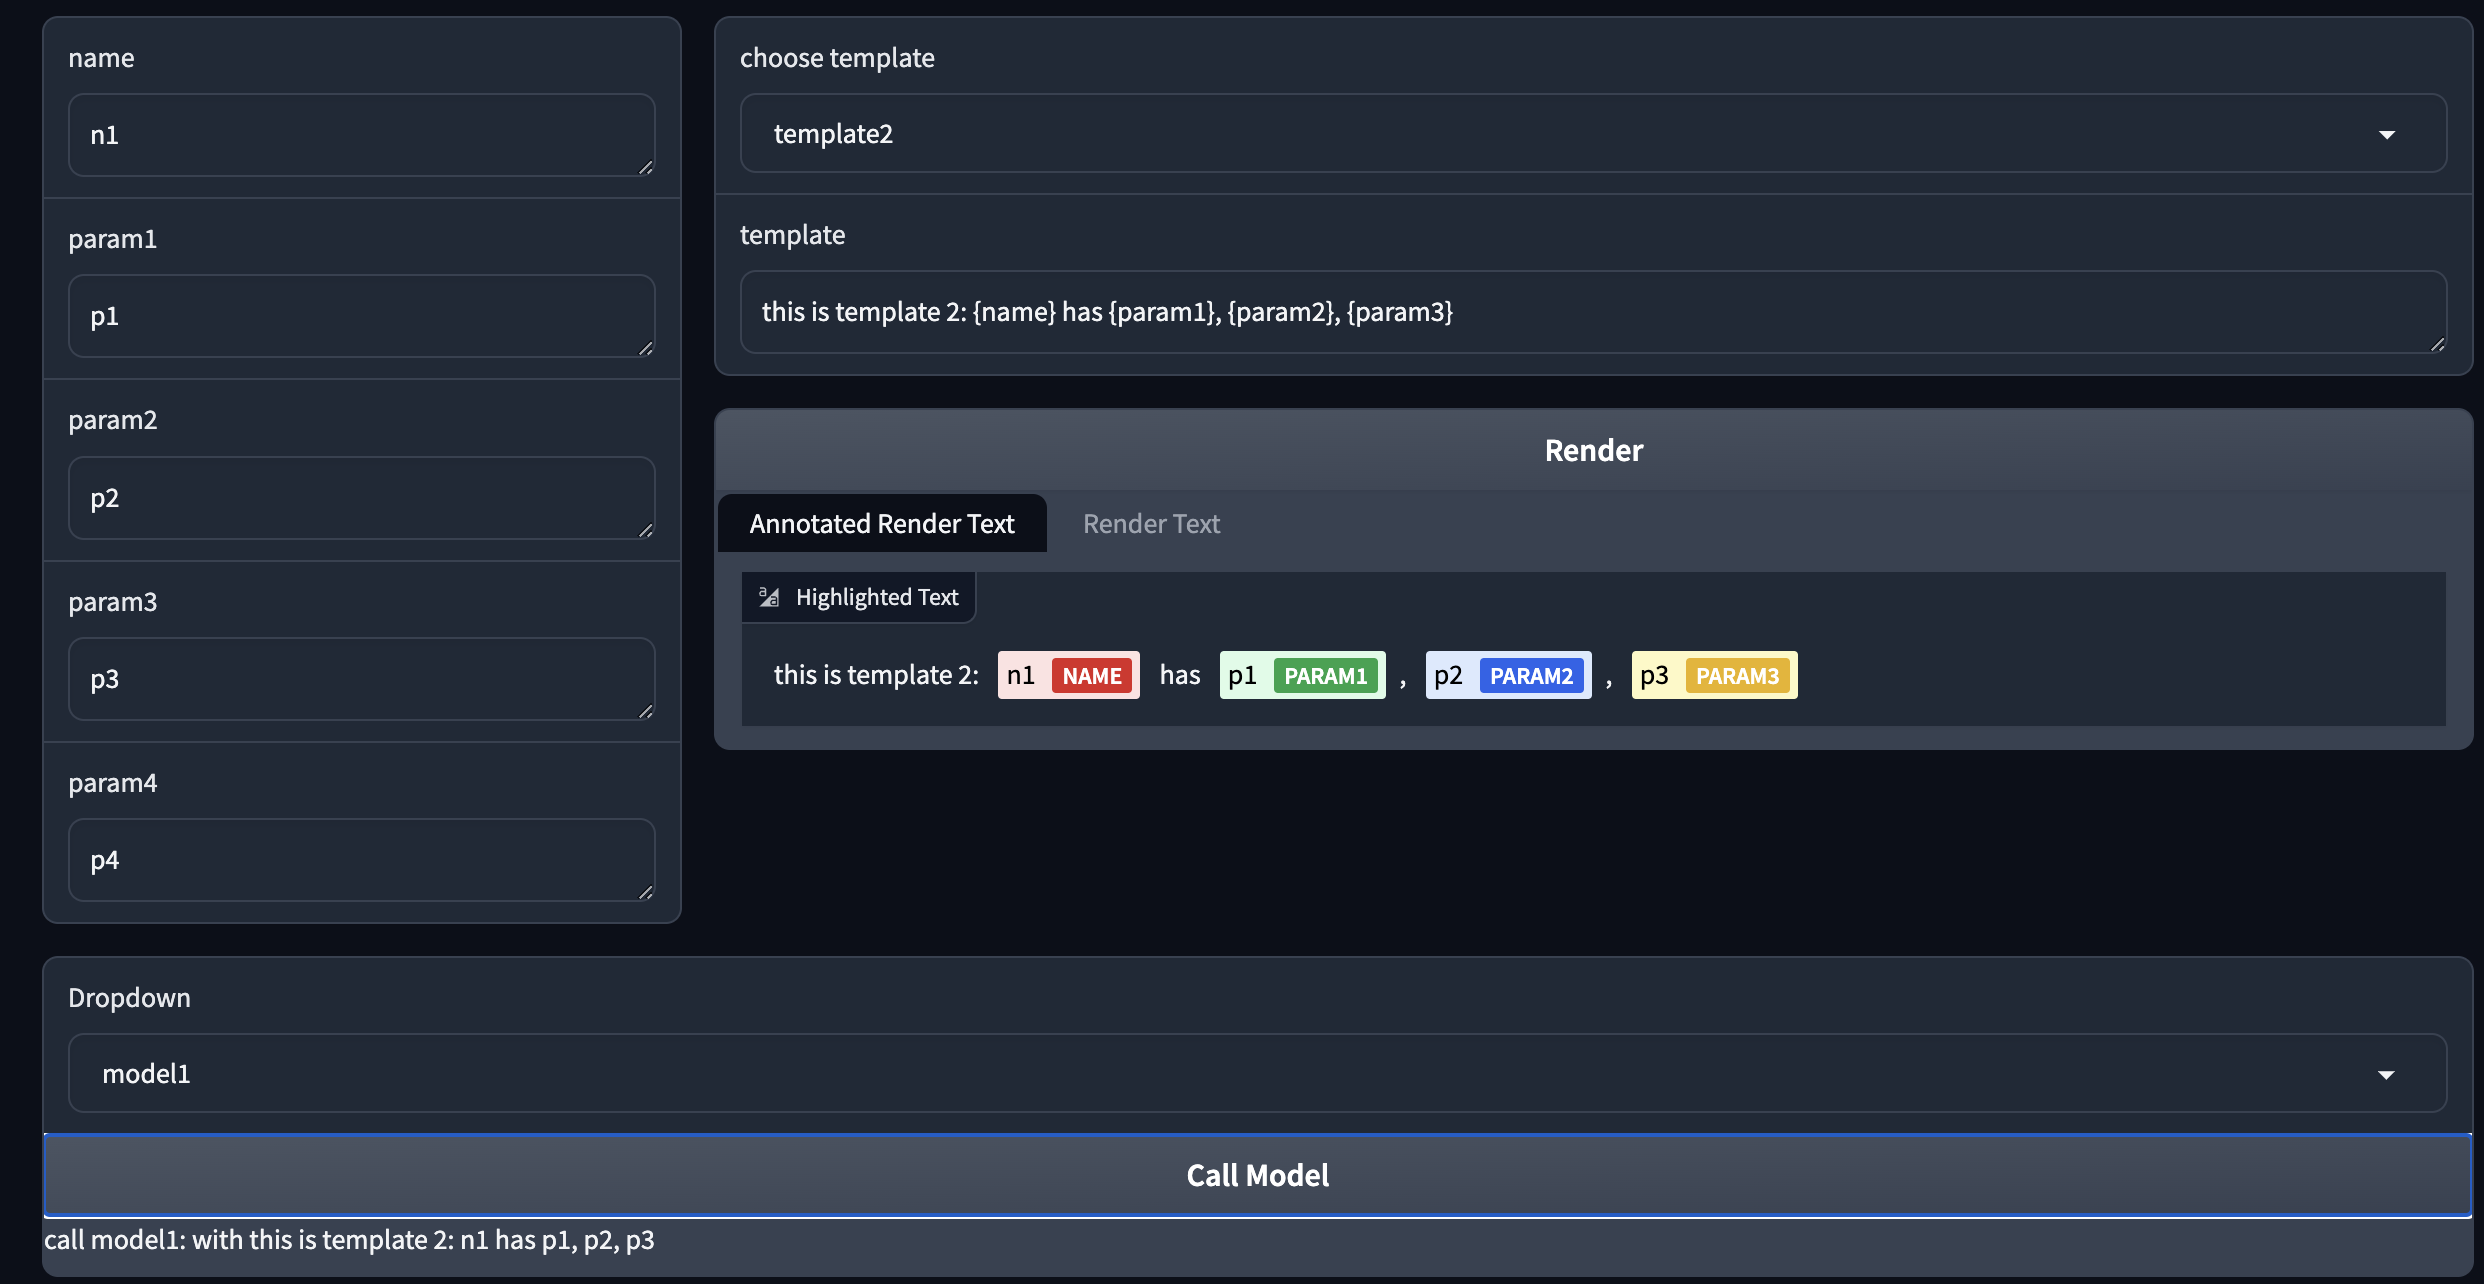
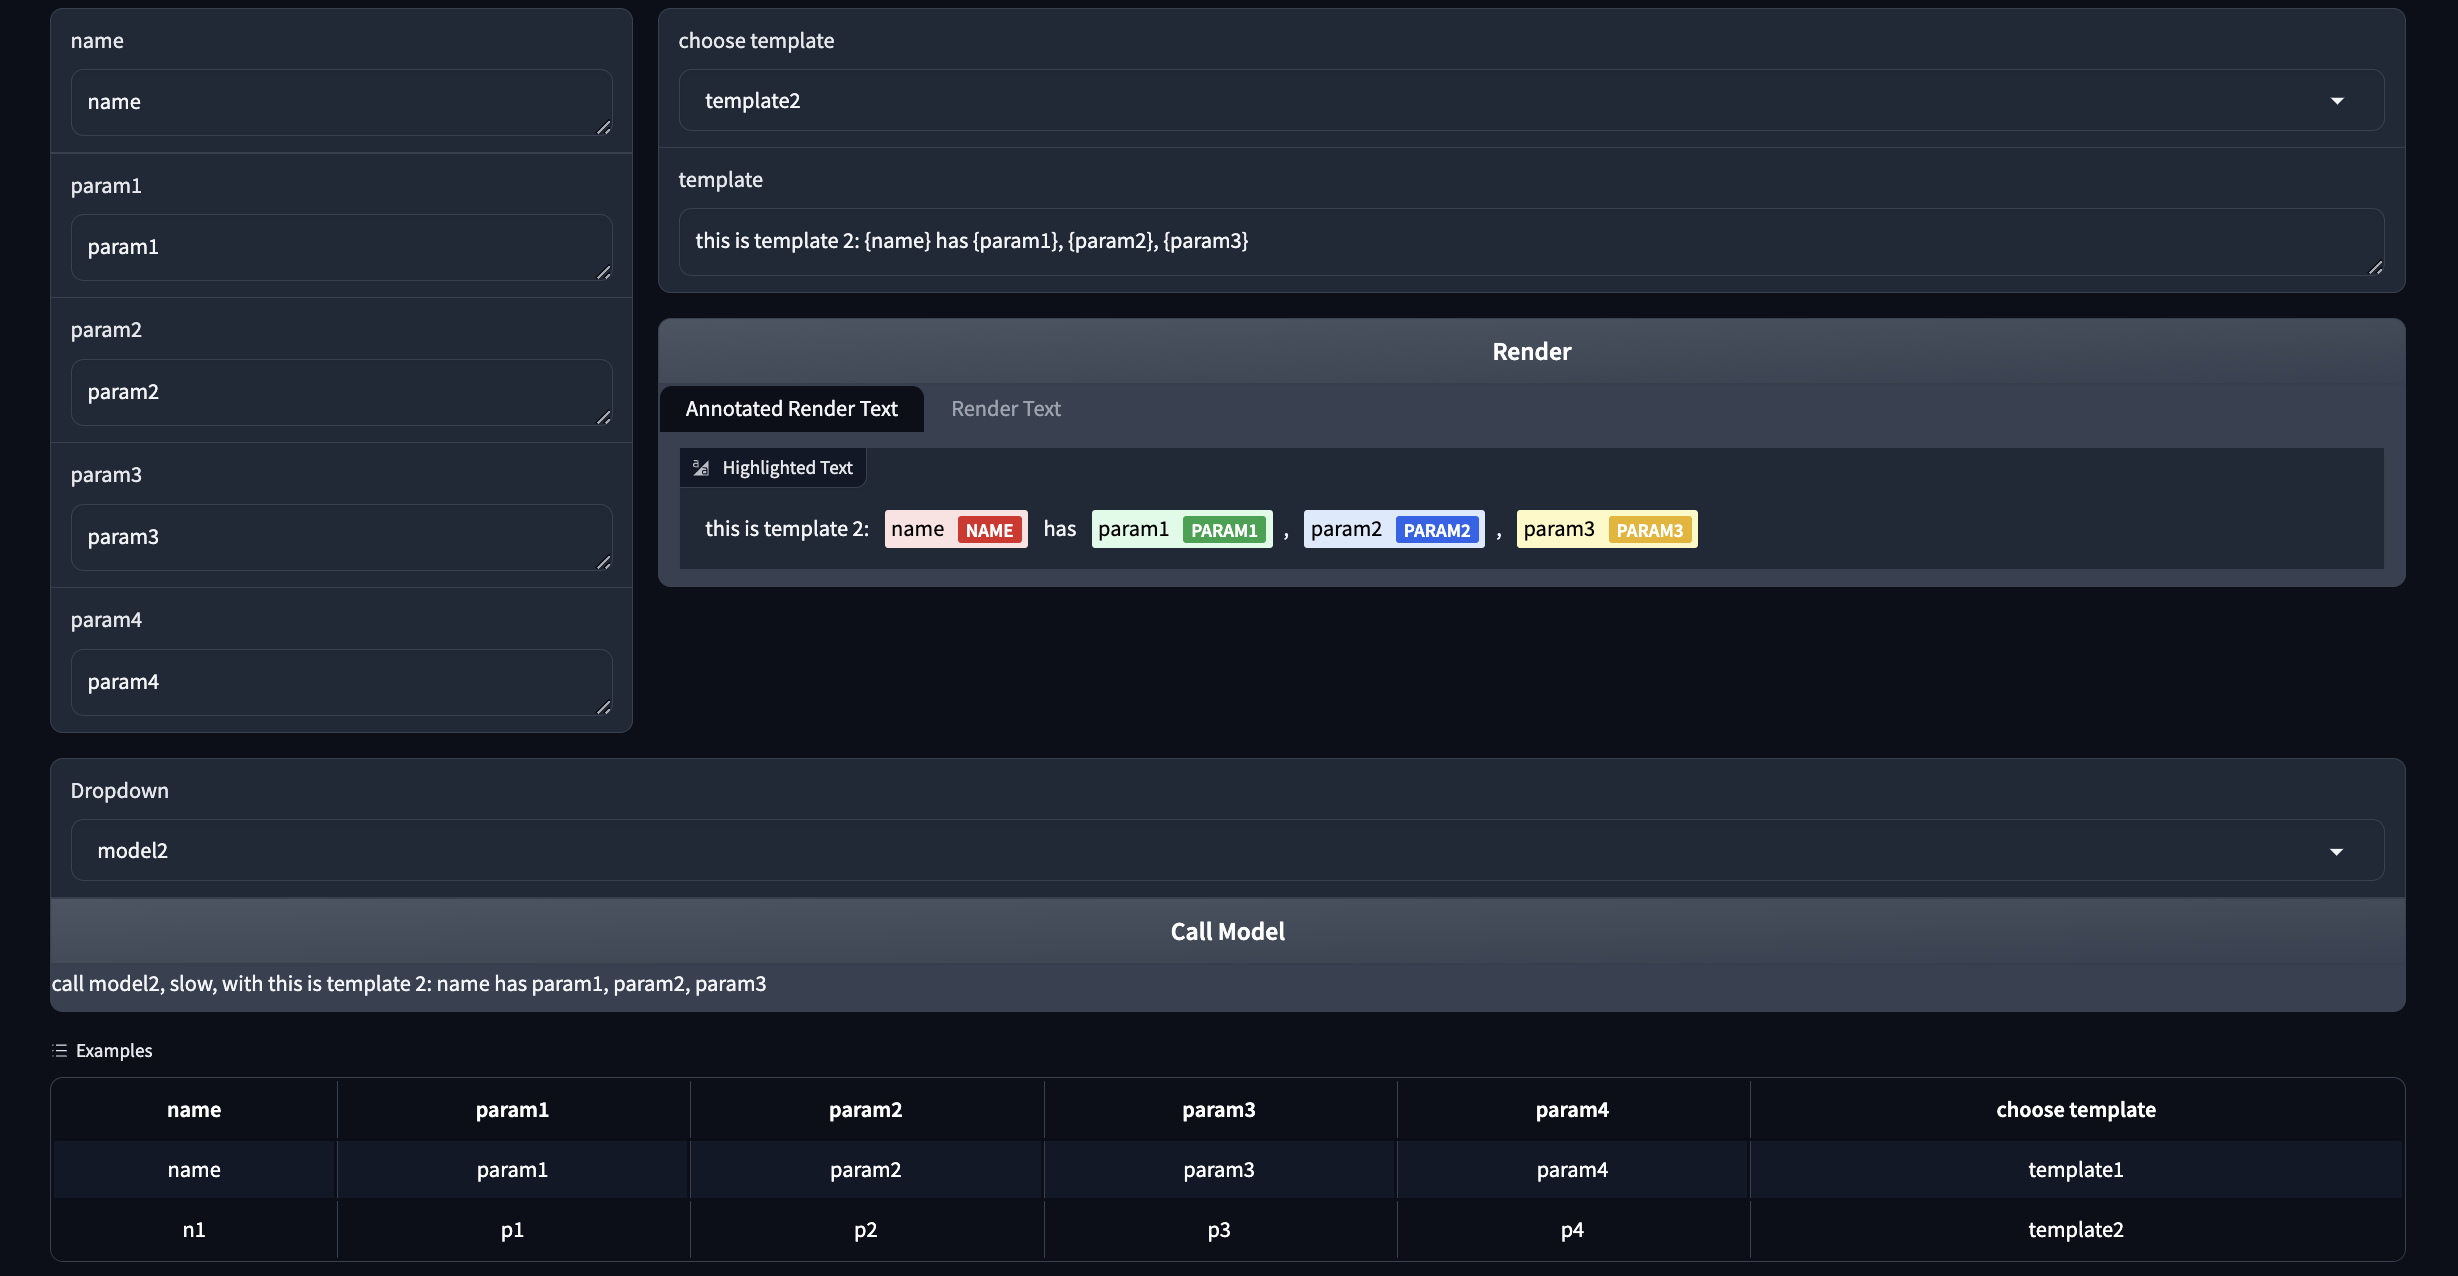
finish basic README

diff --git a/README.md b/README.md
@@ -1,10 +1,39 @@
 # Python Web Dashboard Comparison
 
+## Summary
+
+This small repository aims to compare four python App/Dashboard libraries, `Gradio`, `Streamlit`, `Taipy`, and `Reflex`. I have create the same demo-dashboard with four different libraries, with minimal work on customized styling by myself. You can check the code and the screenshot to compare them.
+
+## The Demo-Dashboard
+
+The demo-dashboard is a UI for the data interaction, from `/data` directory. The general idea is we have a template with multiple inputs from users, and we want to render the template with user input and send the rendered text to a model for analysis. 
+
+For example, you can imagine an app that needs to send `{GREETING}, {Name}!` to a chatbot and get response back.
+
+**Example 1**
+
+* template: `{GREETING}, {Name}!`
+* user input: GREETING=hello, Name=World
+* rendered text: `Hello, World!`
+* chatbot: `Hello User!`
+
+**Example 2**
+
+* template: `{GREETING}, {Name}!`
+* user input: `GREETING=Goodbye, Name=World`
+* rendered text: `Goodbye, World!`
+* chatbot: `Goodbye User!`
+
+## Comparison
+
+You can chat the code (**/dashboard.py) and the screenshot to make your judgements. My comparison can be found in [COMPARISON.md](COMPARISON.md)
+
+
 ## Progress
 
 | Gradio | Streamlit | Taipy | Reflex |
 | :----- | :-------- | :---- | :----- |
-| DONE   | TODO      | TODO  | TODO   |
+| DONE   | DONE      | DONE  | DONE   |
 
 
 ## Run
@@ -17,13 +46,55 @@ make install-gradio
 ```
 then open http://127.0.0.1:7860
 
-## Dependency Count (in MacOS)
+**streamlit**
 
 ```shell
-pip list | wc -l
+make install-streamlit
+.venv/bin/python -m streamlit run streamlit_example/dashboard.py
+# alternatively 
+# .venv/bin/streamlit run streamlit_example/dashboard.py
 ```
 
-| Gradio | Streamlit | Taipy | Reflex |
-| :----- | :-------- | :---- | :----- |
-| 71     | 44        | 88    | 65     |
+then open http://localhost:8501
 
+**taipy**
+
+```shell
+make install-taipy
+.venv/bin/python taipy_example/dashboard.py --port 8080
+```
+
+then open http://localhost:8080
+
+
+**reflex**
+
+```shell
+make install-reflex
+cd reflex_example
+../.venv/bin/python -m reflex init
+../.venv/bin/python -m reflex run
+```
+
+then open http://localhost:3000
+
+
+## Screenshot
+
+Here is an overview of the screenshot.
+
+**Gradio**
+
+![gradio](gradio_example/gradio.png)
+
+**Streamlit**
+
+![streamlit](streamlit_example/streamlit.png)
+
+**Taipy**
+
+![taipy](taipy_example/taipy.png)
+
+**Reflex**
+
+![reflex](reflex_example/reflex_example/reflex.png)
